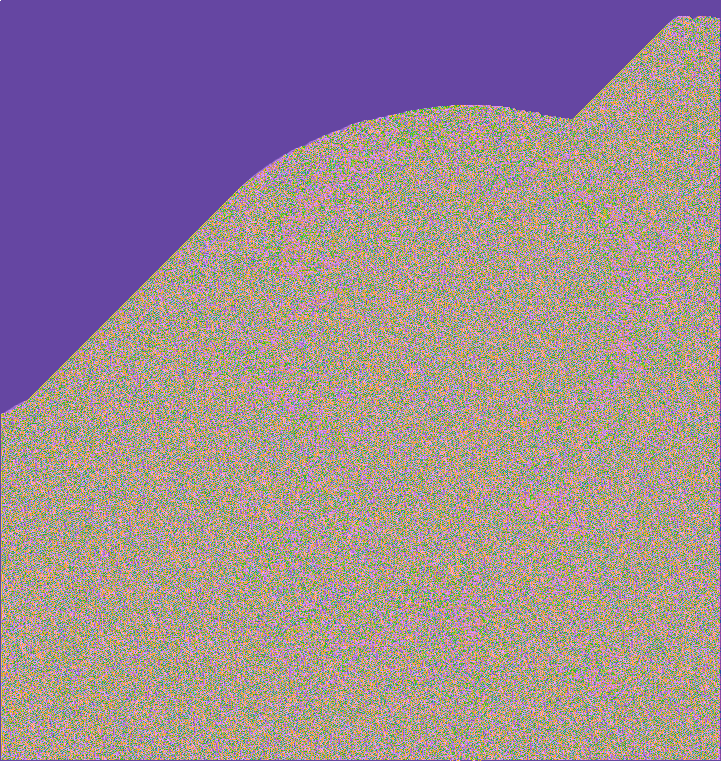
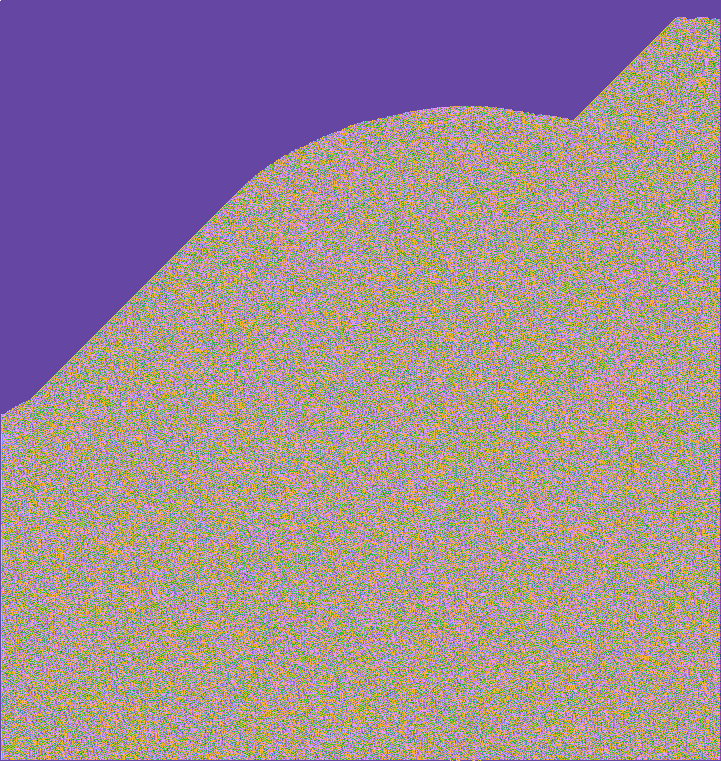
SOBEL COL

diff --git a/1course.c b/1course.c
@@ -134,7 +134,7 @@ int main() {
     char* image_1 = image;
 
     preparation(image, w, h);
-    fGauss(image_1, image, w, h);
+   // fGauss(image_1, image, w, h);
     fSobel(image, image_1, w, h);
 
     char* data = (char*)malloc(n*w*h*sizeof(char));
